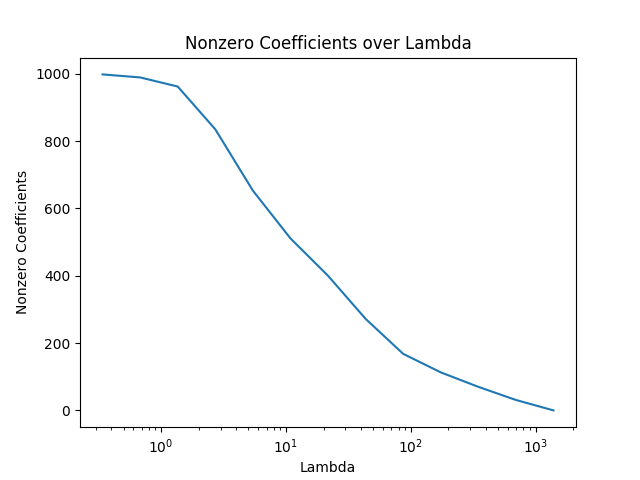
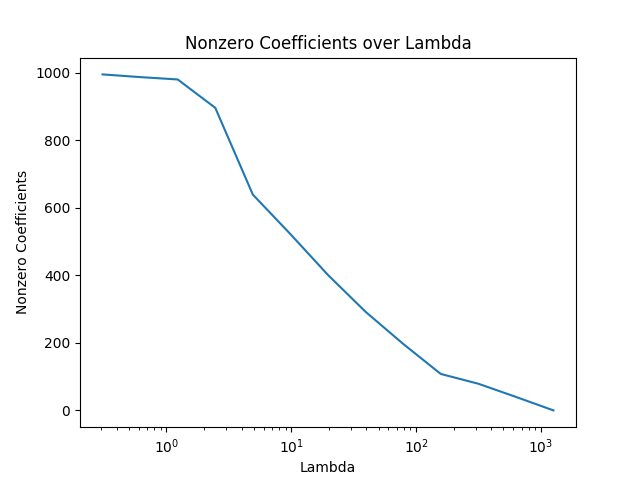
remade a4

diff --git a/hw2-code/src/crime-lasso.py b/hw2-code/src/crime-lasso.py
@@ -16,26 +16,61 @@ def main():
   print("binary logistic regression")
 
   df_train, df_test = h.load_crime()
-  
-  print(df_train.head())
-  print(df_train.iloc[:,1:])
-
-  # response y is the rate of violent crimes reported per capita in a community.
-
-  # 95 features
-  # 1595 training samples
-  # 399 test samples
 
   X_train = df_train.iloc[:, 1:].values
   Y_train = df_train.iloc[:, :1].values
-  
+
   X_test = df_test.iloc[:, 1:].values
   Y_test = df_test.iloc[:, :1].values
 
   input_variables = ["agePct12t29", "pctWSocSec",
                      "pctUrban", "agePct65up", "householdsize"]
 
-  crime_lasso = lasso.Lasso()
+  input_indices = [df_train.columns.get_loc(col_name) for col_name in input_variables]
+
+  lamb_data = []
+  nonzero_data = []
+
+  w_list = []
+  b_list = []
+
+  lamb = h.min_lamb(X_train, Y_train)
+
+  crime_train_lasso = lasso.Lasso(X_train, Y_train)
+  crime_test_lasso = lasso.Lasso(X_test, Y_test)
+
+  w_zero = None
+
+  while True:
+    print("crime lasso lambda value: " + str(lamb))
+
+    if w_zero == None:
+      w_zero, b = crime_train_lasso.coord_desc(lamb)
+      w = w_zero
+    else:
+      w, b = crime_train_lasso.coord_desc(lamb, w=w_zero)
+
+    w_list.append(w)
+    b_list.append(b)
+
+    lamb_data.append(lamb)
+    nz_count = np.count_nonzero()
+    nonzero_data.append(nz_count)
+
+    lamb = lamb / 2
+
+    if lamb < 0.01:
+      break
+
+  data_list = w_list[input_indices]
+  print(data_list.shape)
+
+  h.plot_single("Nonzero Coefficients over Lambda", "A5c.png",
+                "Lambda", "Nonzero Coefficients", lamb_data, nonzero_data, True)
+  
+  h.plot_multiple("Nonzero Coefficients over Lambda", "A5d.png", "Lambda", "Weights", lamb_data, data_list, True)
+
+  # h.plot_single("Nonzero Coefficients over Lambda", "A5c.png", "Lambda", "Nonzero Coefficients", lamb_data, nonzero_data)
 
 if __name__ == "__main__":
   main()

diff --git a/hw2-code/src/lasso.py b/hw2-code/src/lasso.py
@@ -33,7 +33,7 @@ def main():
     print("lasso lambda value: " + str(lamb))
 
     # perform coordinate descent 
-    w = lasso.coord_desc(lamb)
+    w, _ = lasso.coord_desc(lamb)
 
     # append lambda/nonzero data
     lamb_data.append(lamb)
@@ -57,18 +57,19 @@ def main():
                 "FDR", "TPR", fdr_data, tpr_data)
 
 class Lasso:
-  def __init__(self):
-    self.X = None
-    self.Y = None
+  def __init__(self, X=None, Y=None):
+    self.X = X
+    self.Y = Y
 
-  def coord_desc(self, lamb, cutoff=c.cutoff):
-    # 500, 1000
+  def coord_desc(self, lamb, cutoff=c.cutoff, w=None):
     n, d = self.X.shape
 
     b = 0
     a = 2 * np.sum(np.square(self.X), axis=0)
     c = np.zeros((d, 1))
-    w = np.zeros((d, 1))
+
+    if w == None:
+      w = np.zeros((d, 1))
 
     while True:
       w_diff = 0
@@ -98,7 +99,7 @@ class Lasso:
       if w_diff < cutoff:
         break
     
-    return w
+    return w, b
 
   def generate_synthetic_data(self, n=500, d=1000, k=100, sd=1):
     print("generating synthetic data")
@@ -108,7 +109,6 @@ class Lasso:
     w = np.expand_dims(w, axis=1)
     w = w / k
     
-    np.random.seed(3853)
     X = np.random.normal(size=(n, d))
     offset = np.random.normal(scale=sd, size=(n, ))
     Y = (w.T).dot(X.T) + offset

diff --git a/hw2-code/src/helpers.py b/hw2-code/src/helpers.py
@@ -81,6 +81,27 @@ def plot_single(plt_title, img_title, x_label, y_label, x_data, y_data, log_scal
   plt.savefig(c.results_path + img_title + c.png_exten)
   plt.close()
 
+
+"""
+Helper function for plotting multiple functions
+"""
+def plot_multiple(plt_title, img_title, x_label, y_label, x_data, data_list, legend_list, log_scale=False):
+  print("plot " + plt_title)
+
+  for data in data_list:
+    plt.plot(x_data, data)
+
+  plt.title(plt_title)
+  plt.xlabel(x_label)
+  plt.ylabel(y_label)
+  plt.legend(legend_list)
+
+  if log_scale:
+    plt.xscale('log')
+
+  plt.savefig(c.results_path + img_title + c.png_exten)
+  plt.close()
+
 """
 Helper function for getting min lasso lambda where w is all zero
 """
